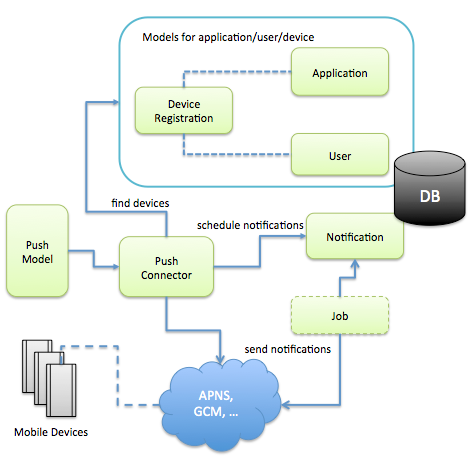
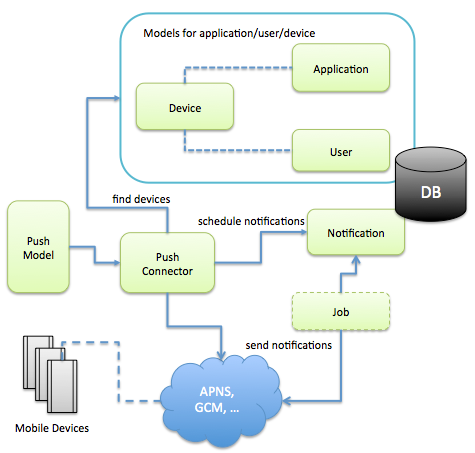
Rename DeviceRegistration to be Device

diff --git a/models/device.js b/models/device.js
@@ -4,9 +4,9 @@
 var loopback = require('loopback');
 
 /**
- * DeviceRegistration Model
+ * Device Model
  */
-var DeviceRegistration = loopback.createModel('DeviceRegistration',
+var Device = loopback.createModel('Device',
     {
         // The registration id
         id: {
@@ -28,7 +28,7 @@ var DeviceRegistration = loopback.createModel('DeviceRegistration',
     }
 );
 
-DeviceRegistration.beforeCreate = function (next) {
+Device.beforeCreate = function (next) {
     var reg = this;
     reg.created = reg.modified = new Date();
     next();
@@ -43,13 +43,13 @@ DeviceRegistration.beforeCreate = function (next) {
  *
  * @callback cb
  */
-DeviceRegistration.findByApp = function (deviceType, appId, appVersion, cb) {
+Device.findByApp = function (deviceType, appId, appVersion, cb) {
     if(!cb && typeof appVersion === 'function') {
         cb = appVersion;
         appVersion = undefined;
     }
     var filter = {where: {appId: appId, appVersion: appVersion, deviceType: deviceType}};
-    DeviceRegistration.find(filter, cb);
+    Device.find(filter, cb);
 };
 
 /**
@@ -58,9 +58,9 @@ DeviceRegistration.findByApp = function (deviceType, appId, appVersion, cb) {
  * @param deviceType
  * @param cb
  */
-DeviceRegistration.findByUser = function (deviceType, userId, cb) {
+Device.findByUser = function (deviceType, userId, cb) {
     var filter = {where: {userId: userId, deviceType: deviceType}};
-    DeviceRegistration.find(filter, cb);
+    Device.find(filter, cb);
 };
 
 /**
@@ -69,12 +69,12 @@ DeviceRegistration.findByUser = function (deviceType, userId, cb) {
  * @param deviceType
  * @param cb
  */
-DeviceRegistration.findBySubscription = function (deviceType, subscriptions, cb) {
+Device.findBySubscription = function (deviceType, subscriptions, cb) {
     if(typeof subscriptions === 'string') {
         subscriptions = subscriptions.split(/[\s,]+/);
     }
     var filter = {where: {subscriptions: {inq: subscriptions}, deviceType: deviceType}};
-    DeviceRegistration.find(filter, cb);
+    Device.find(filter, cb);
 };
 
 /*!
@@ -93,7 +93,7 @@ function setRemoting(fn, options) {
     fn.shared = true;
 }
 
-setRemoting(DeviceRegistration.findByApp, {
+setRemoting(Device.findByApp, {
     description: 'Find devices by application id',
     accepts: [
         {arg: 'deviceType', type: 'string', description: 'Device type', http: {source: 'query'}},
@@ -104,7 +104,7 @@ setRemoting(DeviceRegistration.findByApp, {
     http: {verb: 'get', path: '/byApp'}
 });
 
-setRemoting(DeviceRegistration.findByUser, {
+setRemoting(Device.findByUser, {
     description: 'Find devices by user id',
     accepts: [
         {arg: 'deviceType', type: 'string', description: 'Device type', http: {source: 'query'}},
@@ -114,7 +114,7 @@ setRemoting(DeviceRegistration.findByUser, {
     http: {verb: 'get', path: '/byUser'}
 });
 
-setRemoting(DeviceRegistration.findBySubscription, {
+setRemoting(Device.findBySubscription, {
     description: 'Find devices by subscriptions',
     accepts: [
         {arg: 'deviceType', type: 'string', description: 'Device type', http: {source: 'query'}},
@@ -124,7 +124,7 @@ setRemoting(DeviceRegistration.findBySubscription, {
     http: {verb: 'get', path: '/bySubscription'}
 });
 
-module.exports = DeviceRegistration;
+module.exports = Device;
 
 
 

diff --git a/lib/push-manager.js b/lib/push-manager.js
@@ -14,7 +14,7 @@ function PushManager(settings) {
 
     settings = settings || {};
 
-    this.DeviceRegistration = settings.DeviceRegistration || require('../models/device-registration');
+    this.Device = settings.Device || require('../models/device');
     this.Notification = settings.Notification || require('../models/notification');
     this.Application = settings.Application || require('loopback').Application;
 
@@ -40,7 +40,7 @@ PushManager.prototype.configureProvider = function (deviceType, pushSettings) {
             feedback = new apn.Feedback(feedbackOptions);
             feedback.on("feedback", function (devices) {
                 devices.forEach(function (device) {
-                    self.DeviceRegistration.deleteAll({where: {deviceType: 'ios', deviceToken: device}});
+                    self.Device.deleteAll({where: {deviceType: 'ios', deviceToken: device}});
                 });
             });
         }
@@ -153,7 +153,7 @@ PushManager.prototype.pushNotification = function (deviceToken, notification) {
     if (self.debug) {
         console.log('Request to send notification: ', deviceToken, notification);
     }
-    this.DeviceRegistration.findOne({where: {deviceToken: deviceToken}}, function (err, reg) {
+    this.Device.findOne({where: {deviceToken: deviceToken}}, function (err, reg) {
         if (reg) {
             self.configureApplication(reg.appId, reg.deviceType, function (err, provider) {
                 var push = provider && provider.push;
@@ -179,7 +179,7 @@ PushManager.prototype.pushNotificationByApp = function (deviceType, appId, appVe
     if (!deviceType) {
         deviceType = undefined;
     }
-    self.DeviceRegistration.findByApp(deviceType, appId, appVersion, function (err, regs) {
+    self.Device.findByApp(deviceType, appId, appVersion, function (err, regs) {
         if (!err) {
             regs.forEach(function (r) {
                 self.pushNotification(r.deviceToken, notification);
@@ -201,7 +201,7 @@ PushManager.prototype.pushNotificationByUser = function (deviceType, userId, not
     if (!deviceType) {
         deviceType = undefined;
     }
-    self.DeviceRegistration.findByUser(deviceType, userId, function (err, regs) {
+    self.Device.findByUser(deviceType, userId, function (err, regs) {
         if (!err) {
             regs.forEach(function (r) {
                 self.pushNotification(r.deviceToken, notification);
@@ -215,7 +215,7 @@ PushManager.prototype.pushNotificationByUser = function (deviceType, userId, not
 
 PushManager.prototype.pushNotificationByRegistrationId = function (id, notification, cb) {
     var self = this;
-    self.DeviceRegistration.findById(id, function (err, result) {
+    self.Device.findById(id, function (err, result) {
         if (!err) {
             self.pushNotification(result.deviceToken, notification);
             cb && cb(err, regs);

diff --git a/example/apns-loopback.js b/example/apns-loopback.js
@@ -15,7 +15,7 @@ var ds = require('./data-sources/db');
 
 var PushModel = require('../index')(app, {dataSource: ds});
 var Application = PushModel.Application;
-var DeviceRegistration = PushModel.DeviceRegistration;
+var Device = PushModel.Device;
 
 app.use(loopback.static(path.join(__dirname, 'html')));
 
@@ -50,9 +50,9 @@ Application.register('test-user', 'TestApp',
         var application = result;
 
         // Register two devices
-        DeviceRegistration.destroyAll(function (err, result) {
+        Device.destroyAll(function (err, result) {
             console.log('Adding a test record');
-            DeviceRegistration.create({
+            Device.create({
                 appId: application.id,
                 userId: 'raymond',
                 deviceToken: '75624450 3c9f95b4 9d7ff821 20dc193c a1e3a7cb 56f60c2e f2a19241 e8f33305',
@@ -67,7 +67,7 @@ Application.register('test-user', 'TestApp',
                     console.log('Registration record is created: ', result);
                 }
             });
-            DeviceRegistration.create({
+            Device.create({
                 appId: application.id,
                 userId: 'chandrika',
                 deviceToken: 'a6127991 8f8d9731 766011fb 28f37c2b 746bcad6 f183c42d 9d8af31f 62f27910',
@@ -86,7 +86,7 @@ Application.register('test-user', 'TestApp',
         });
 
         var badge = 1;
-        app.post('/deviceRegistrations/:id/notify', function (req, res, next) {
+        app.post('/devices/:id/notify', function (req, res, next) {
             var note = new apn.Notification();
 
             note.expiry = Math.floor(Date.now() / 1000) + 3600; // Expires 1 hour from now.

diff --git a/index.js b/index.js
@@ -9,7 +9,7 @@ var loopback = require('loopback');
 exports = module.exports = function(app, options) {
     options = options || {};
     var Application = options.Application || loopback.Application;
-    var DeviceRegistration = options.DeviceRegistration || require('./models/device-registration');
+    var Device = options.Device || require('./models/device');
     var Notification = options.Notification || require('./models/notification');
 
     var dataSource = options.dataSource || loopback.createDataSource('dbForPushNotification', {connector: loopback.Memory});
@@ -17,26 +17,26 @@ exports = module.exports = function(app, options) {
     if(options.dataSource) {
         // Attach models to the dataSource from the options object
         Application.attachTo(dataSource);
-        DeviceRegistration.attachTo(dataSource);
+        Device.attachTo(dataSource);
         Notification.attachTo(dataSource);
     }
 
     var pushDataSource = loopback.createDataSource({
         connector: require('./lib/push-connector'),
-        DeviceRegistration: DeviceRegistration,
+        Device: Device,
         Application: Application
     });
 
     var PushModel = pushDataSource.createModel('pushNotification');
 
     if(app) {
-        app.model(DeviceRegistration);
+        app.model(Device);
         app.model(Notification);
         app.model(PushModel);
     }
 
     PushModel.Application = Application;
-    PushModel.DeviceRegistration = DeviceRegistration;
+    PushModel.Device = Device;
     PushModel.Notification = Notification;
 
     return PushModel;

diff --git a/example/html/js/controllers.js b/example/html/js/controllers.js
@@ -1,12 +1,12 @@
 function DeviceListControl($scope, $http) {
 
-    $http.get('/deviceRegistrations').success(function (data) {
+    $http.get('/devices').success(function (data) {
         $scope.devices = data;
         $scope.orderProp = 'appId';
     });
 
     $scope.notify = function (id, msg) {
-        $http.post('/deviceRegistrations/' + id + '/notify', {msg: msg}).success(function (data, status, headers) {
+        $http.post('/devices/' + id + '/notify', {msg: msg}).success(function (data, status, headers) {
             $scope.status = 'Notification sent: ' + data + ' status: ' + status;
         });
     };
@@ -19,7 +19,7 @@ function DeviceListControl($scope, $http) {
         var newStatus = 'Active' === device.status ? 'Inactive' : 'Active';
         console.log('Setting status to '+newStatus);
         device.status = newStatus;
-        $http.put('/deviceRegistrations/' + device.id, device ).success(function (data, status, headers) {
+        $http.put('/devices/' + device.id, device ).success(function (data, status, headers) {
             $scope.status = 'Status changed: ' + data + ' status: ' + status;
         });
     };

diff --git a/test/device-registration.test.js b/test/device-registration.test.js
@@ -6,18 +6,18 @@ var ds = loopback.createDataSource('db', {connector: loopback.Memory});
 var Application = loopback.Application;
 Application.attachTo(ds);
 
-var DeviceRegistration = require('../models/device-registration');
-DeviceRegistration.attachTo(ds);
+var Device = require('../models/device');
+Device.attachTo(ds);
 
 var Notification = require('../models/notification');
 Notification.attachTo(ds);
 
-describe('DeviceRegistration', function () {
+describe('Device', function () {
     var registration = null;
 
     it('registers a new device', function (done) {
 
-        DeviceRegistration.create({
+        Device.create({
             appId: 'MyLoopbackApp',
             appVersion: '1',
             userId: 'raymond',
@@ -43,7 +43,7 @@ describe('DeviceRegistration', function () {
 
                 registration = reg;
 
-                DeviceRegistration.findByApp('ios', 'MyLoopbackApp', function (err, results) {
+                Device.findByApp('ios', 'MyLoopbackApp', function (err, results) {
                     assert(!err);
                     assert.equal(results.length, 1);
                     var reg = results[0];

diff --git a/test/push-notification.test.js b/test/push-notification.test.js
@@ -7,7 +7,7 @@ var ds = loopback.createDataSource('db', {connector: loopback.Memory});
 
 var PushModel = require('../index')(null, {dataSource: ds});
 var Application = PushModel.Application;
-var DeviceRegistration = PushModel.DeviceRegistration;
+var Device = PushModel.Device;
 
 var fs = require('fs');
 var certData = fs.readFileSync(path.join(__dirname, "../example/credentials/apns_cert_dev.pem"), 'UTF-8');
@@ -42,9 +42,9 @@ describe('PushNotification', function () {
                 }
                 var application = result;
 
-                DeviceRegistration.destroyAll(function (err, result) {
+                Device.destroyAll(function (err, result) {
                     // console.log('Adding a test record');
-                    DeviceRegistration.create({
+                    Device.create({
                         appId: application.id,
                         userId: 'raymond',
                         deviceToken: '75624450 3c9f95b4 9d7ff821 20dc193c a1e3a7cb 56f60c2e f2a19241 e8f33305',

diff --git a/README.md b/README.md
@@ -8,7 +8,7 @@ LoopBack Push Notification is a set of server side models to enable mobile push 
 
 ## Key Components
 
-* DeviceRegistration model and APIs to manage devices with applications and users
+* Device model and APIs to manage devices with applications and users
 * Application model to provide push settings for device types such as ios and android
 * Notification model to capture notification messages and persist scheduled notifications
 * Optional Job to take scheduled notification requests
@@ -55,10 +55,10 @@ APIs for the sign-up.
 
 ### Register a new device
 
-The mobile device also needs to register itself with the backend using DeviceRegistration model and APIs. To
-register a device, we can call the `DeviceRegistration.create` API as follows:
+The mobile device also needs to register itself with the backend using Device model and APIs. To
+register a device, we can call the `Device.create` API as follows:
 
-    DeviceRegistration.create({
+    Device.create({
         appId: 'MyLoopBackApp',
         userId: 'raymond',
         deviceToken: '75624450 3c9f95b4 9d7ff821 20dc193c a1e3a7cb 56f60c2e f2a19241 e8f33305',
@@ -70,9 +70,9 @@ register a device, we can call the `DeviceRegistration.create` API as follows:
         console.log('Registration record is created: ', result);
     });
 
-The DeviceRegistration model is exposed as CRUD REST APIs.
+The Device model is exposed as CRUD REST APIs.
 
-        POST http://localhost:3000/deviceRegistrations
+        POST http://localhost:3000/devices
         {
             "appId": "MyLoopBackApp",
             "userId": "raymond",
